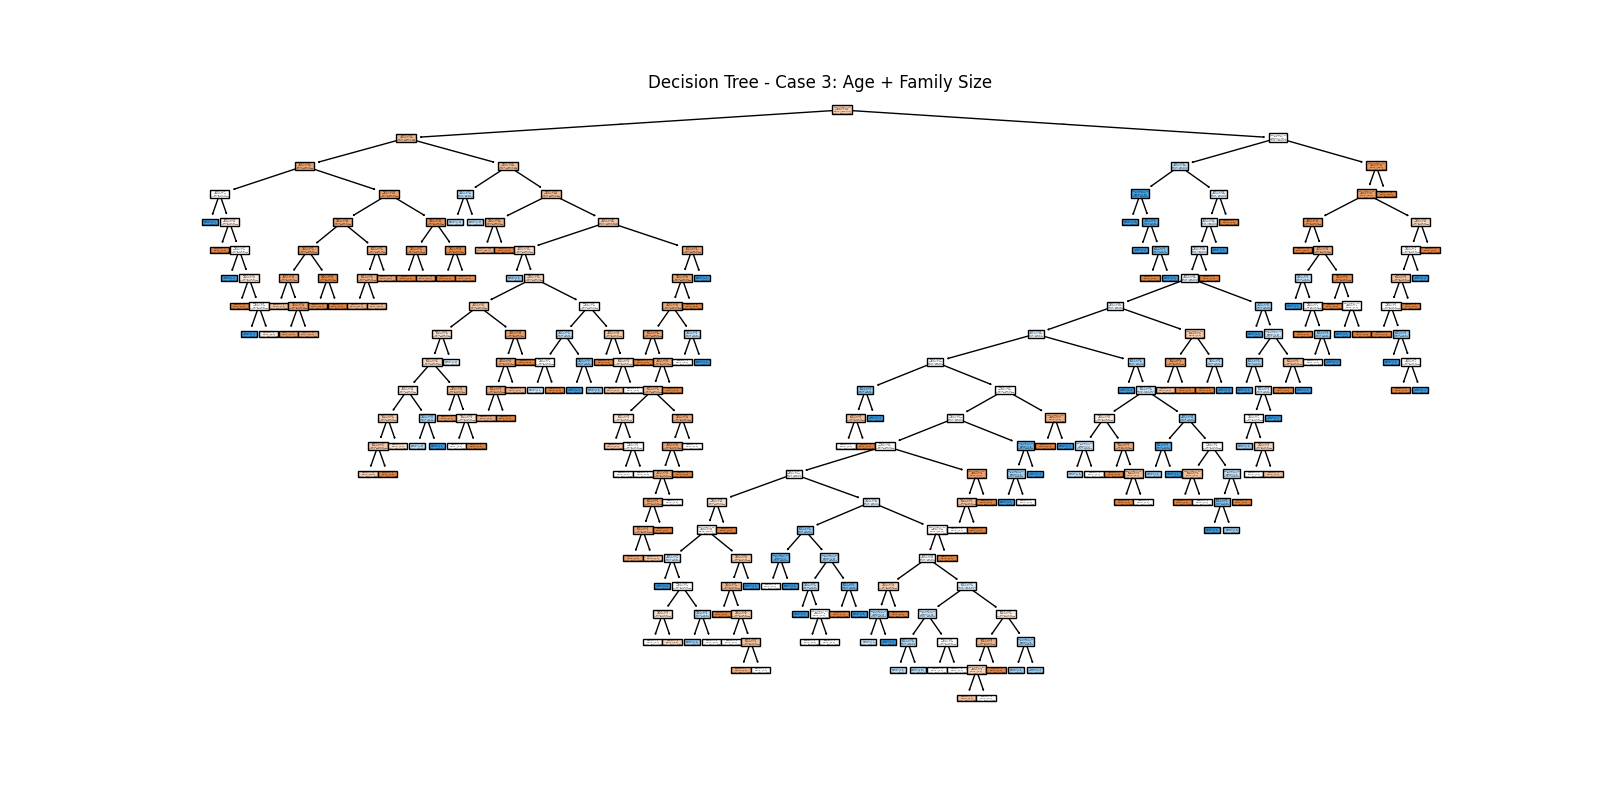
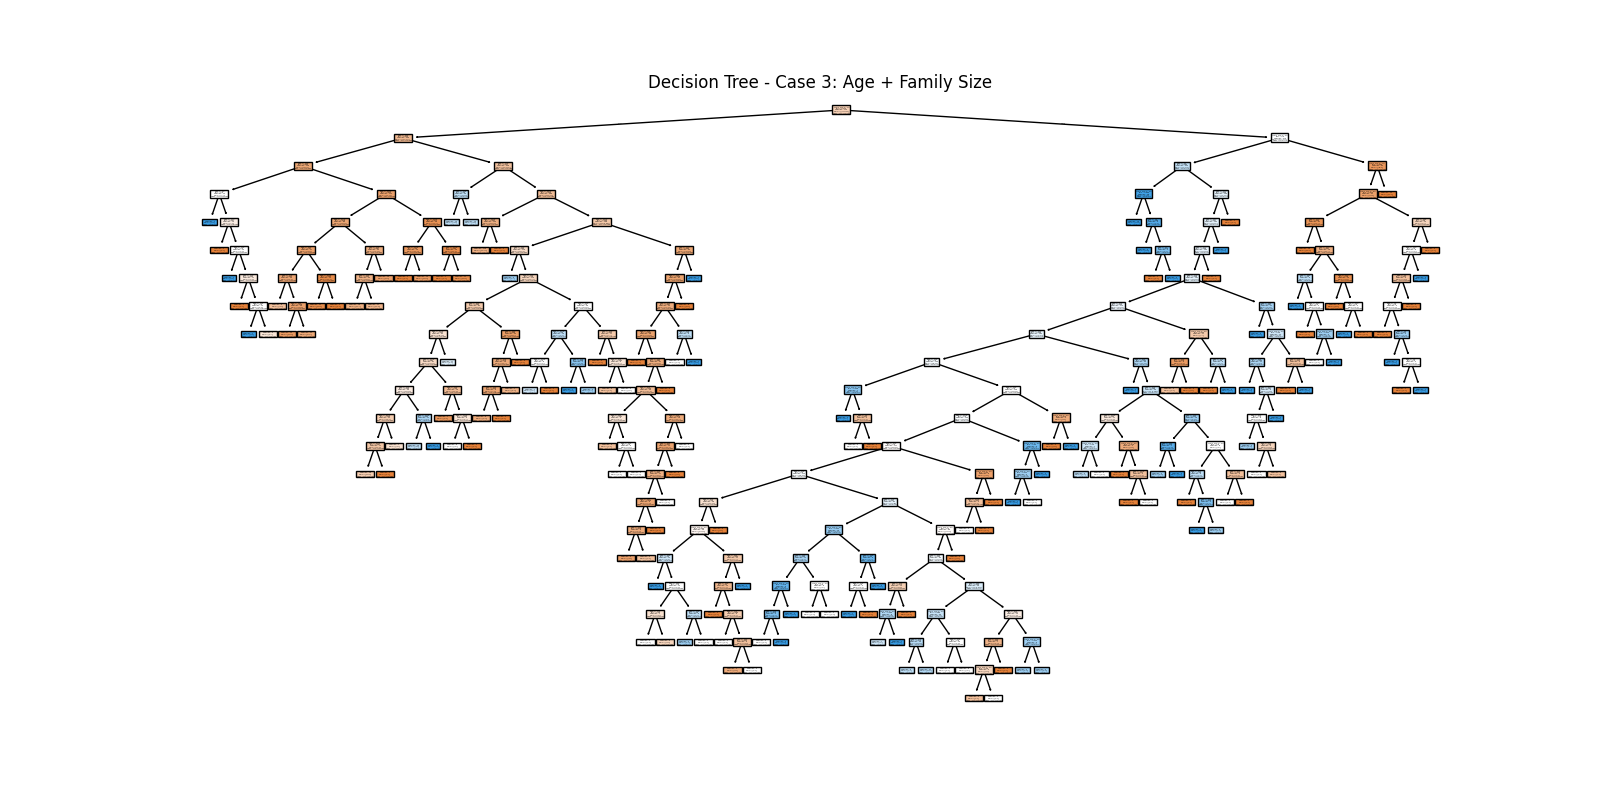
Clean up README, removed duplicate imports, updated docs index file to include project 3 title and description

diff --git a/notebooks/project03/README.md b/notebooks/project03/README.md
@@ -67,7 +67,23 @@ In this project:
 ---
 
 ## Final Thoughts & Insights
+| Model Type           | Case   | Features Used         | Accuracy | Precision | Recall | F1-Score | Notes |
+|----------------------|--------|-----------------------|----------|-----------|--------|----------|-------|
+| Decision Tree        | Case 1 | alone                 | 63%      | 64%       | 63%    | 63%      | Performs similarly to SVM; simple split on alone is limited. |
+| Decision Tree        | Case 2 | age                   | 61%      | 58%       | 61%    | 55%      | Age alone did not predict survival well (especially survivors). |
+| Decision Tree        | Case 3 | age + family_size     | 59%      | 57%       | 59%    | 58%      | Slight overfitting, training was higher than test accuracy. |
+| SVM (RBF Kernel)     | Case 1 | alone                 | 63%      | 64%       | 63%    | 63%      | Single feature gives limited separation. |
+| SVM (RBF Kernel)     | Case 2 | age                   | 63%      | 66%       | 63%    | 52%      | Improved precision but low recall for survivors. |
+| SVM (RBF Kernel)     | Case 3 | age + family_size     | 63%      | 66%       | 63%    | 52%      | Extra feature didn’t noticeably improve performance. |
+| Neural Network (MLP) | Case 3 | age + family_size     | 66%      | 65%       | 66%    | 65%      | Best performance overall, captured more complex patterns. |
 
+## Challenges Faced
+One challenge in this project was identifying features that made a meaningful impact on survival. Some features, such as `age` or `alone`, did not strongly predict survival on their own, which led to lower recall (especially for survivors). Another challenge was avoiding overfitting, particularly with the Decision Tree in Case 3 where training accuracy was higher than test accuracy. This showed the importance of testing models on unseen data to check generalization.
+
+---
+
+## Next Steps
+To improve performance, the next step would be to include additional features such as passenger class (`pclass`), fare, or gender (`sex`), which research shows are more strongly linked to survival. I could also experiment with parameter tuning, such as adjusting SVM kernel settings or changing the number of hidden units in the Neural Network. This may help increase accuracy and create clearer decision boundaries.
 
 - The **Neural Network performed best**, but only slightly better than SVM.  
 - **Age alone** was not a strong predictor.  

diff --git a/docs/index.md b/docs/index.md
@@ -15,7 +15,7 @@ Projects index:
 - [**Project 02: Titanic Survival Analysis**](project02/README.md)  
   Predicting passenger survival using class, fare, age, sex, and family size.
 
-- [**Project 03: Coming Soon**](project03/README.md)  
+- [**Project 03: Titanic Survival Classification – Decision Tree, SVM, and Neural**](project03/README.md)  
   Placeholder for the next model. This will include feature engineering and model evaluation.
 
 - [**Project 04: Coming Soon**](project04/README.md)  
